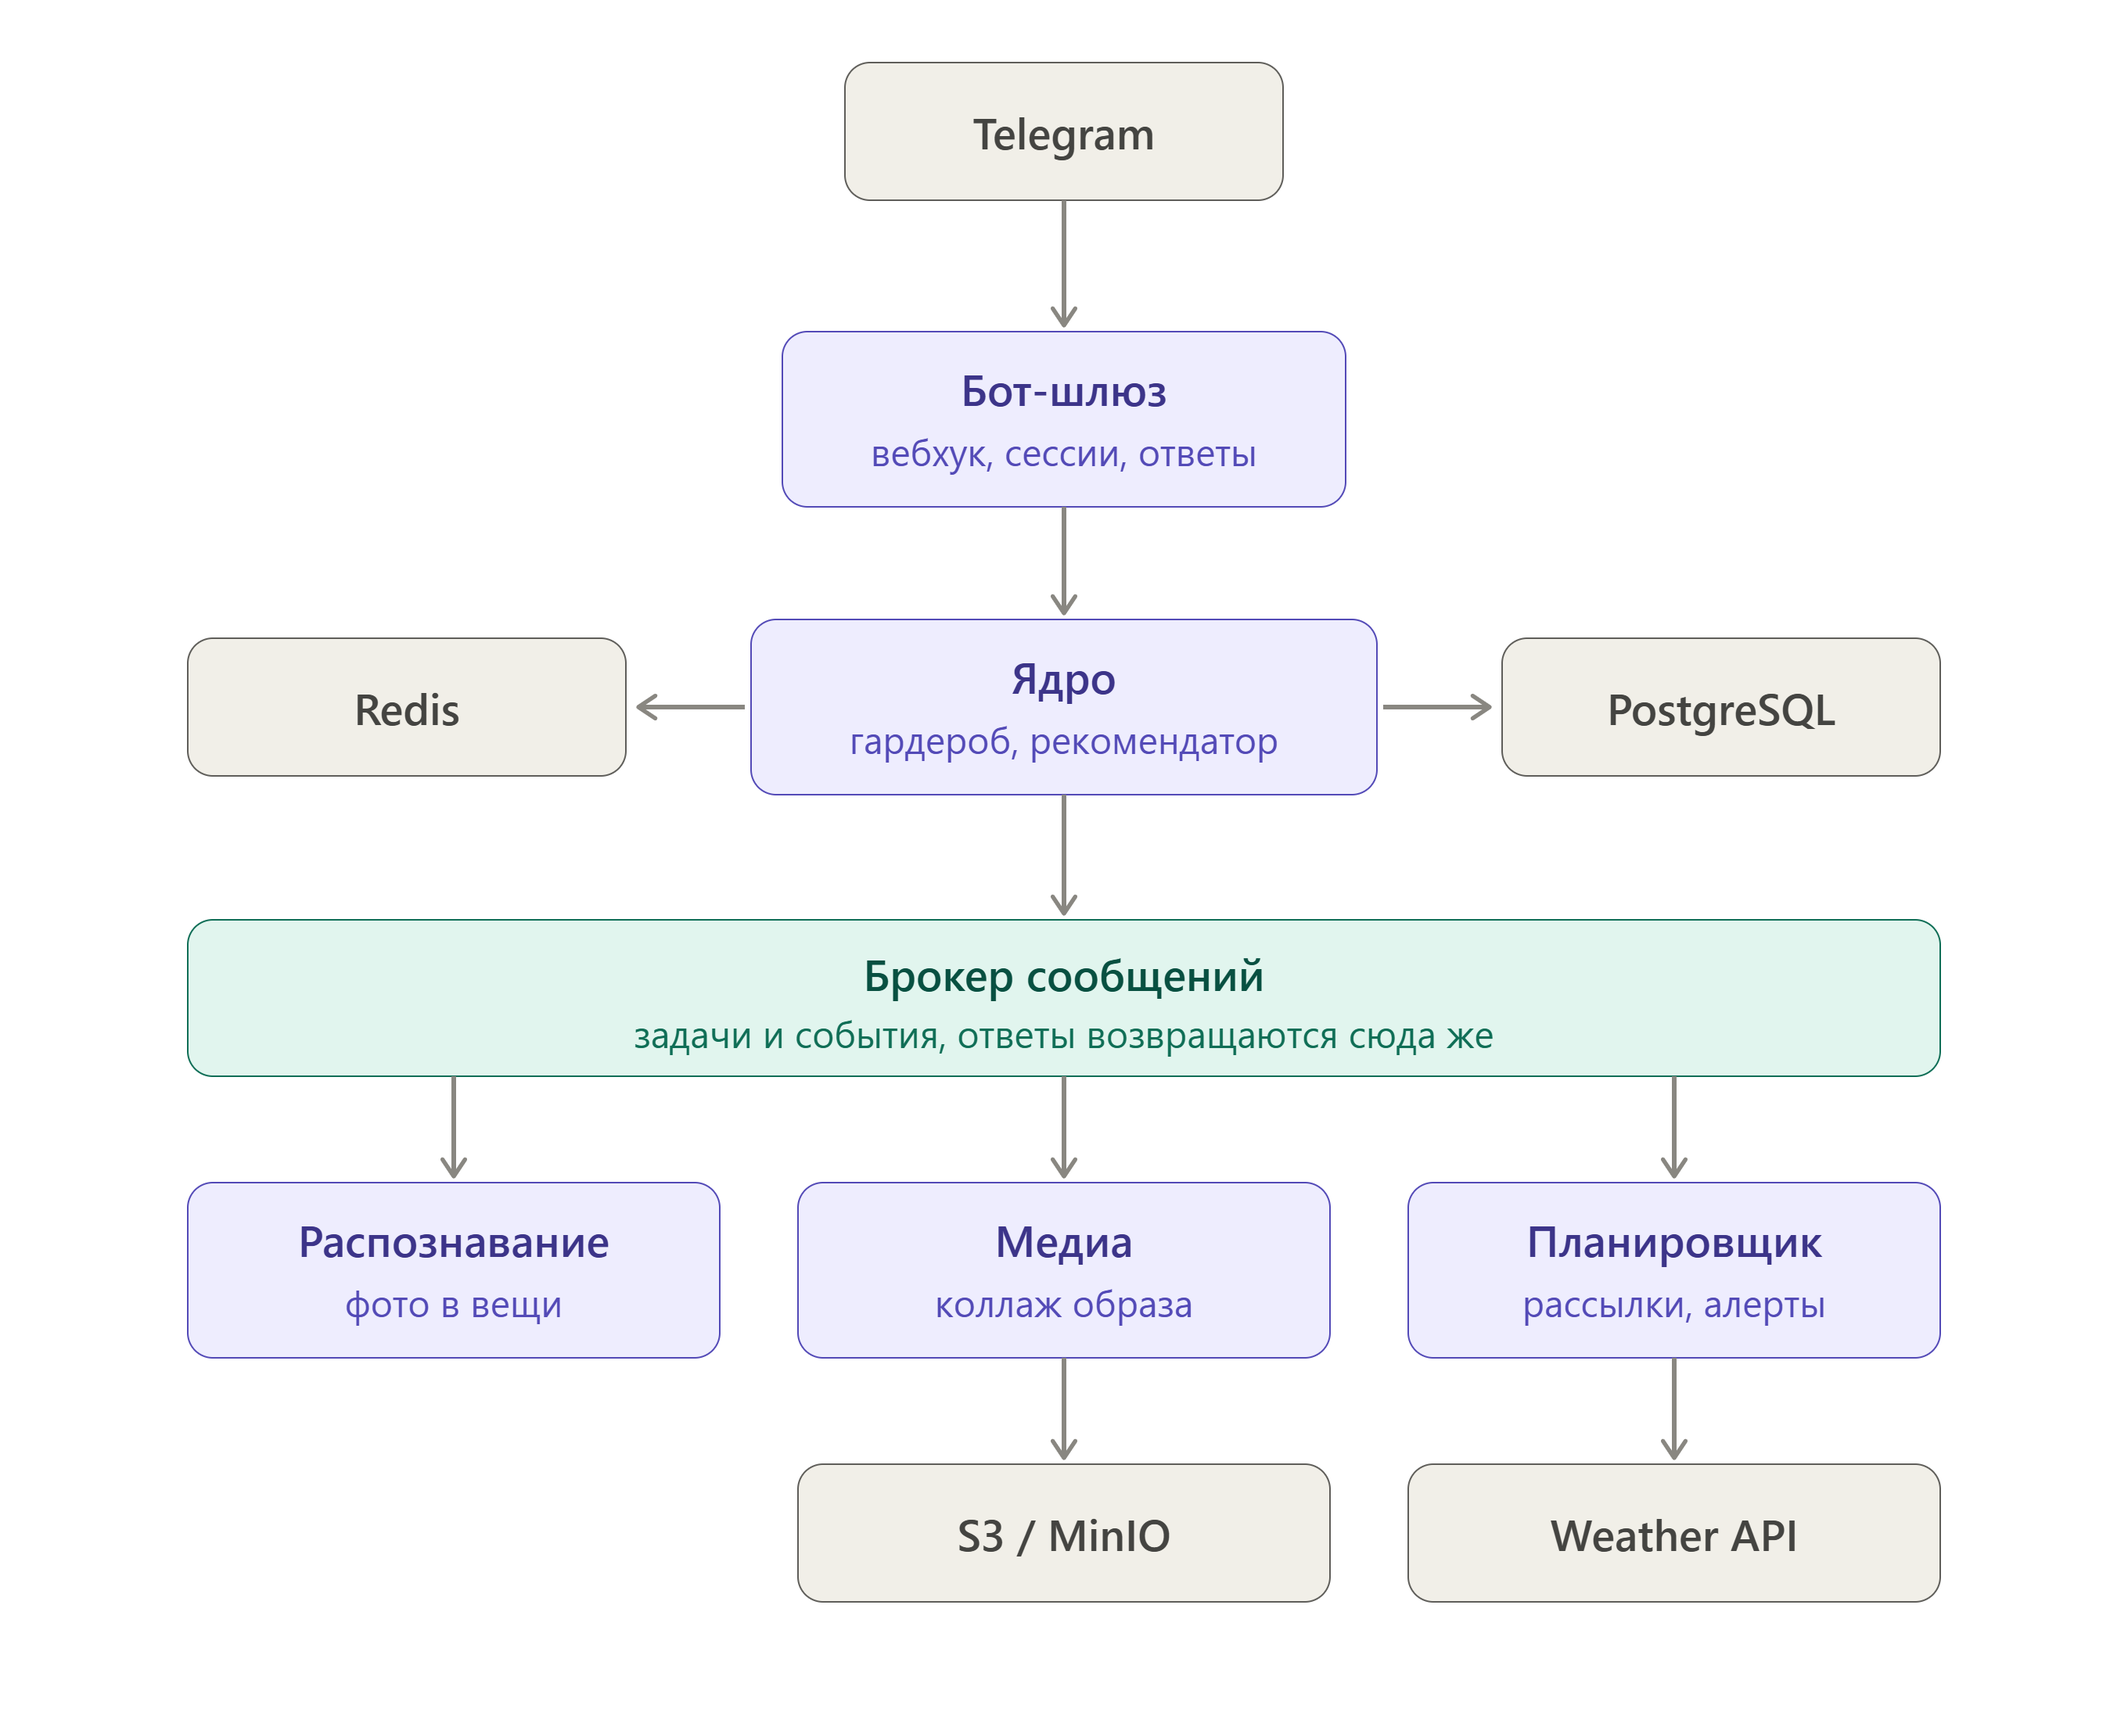
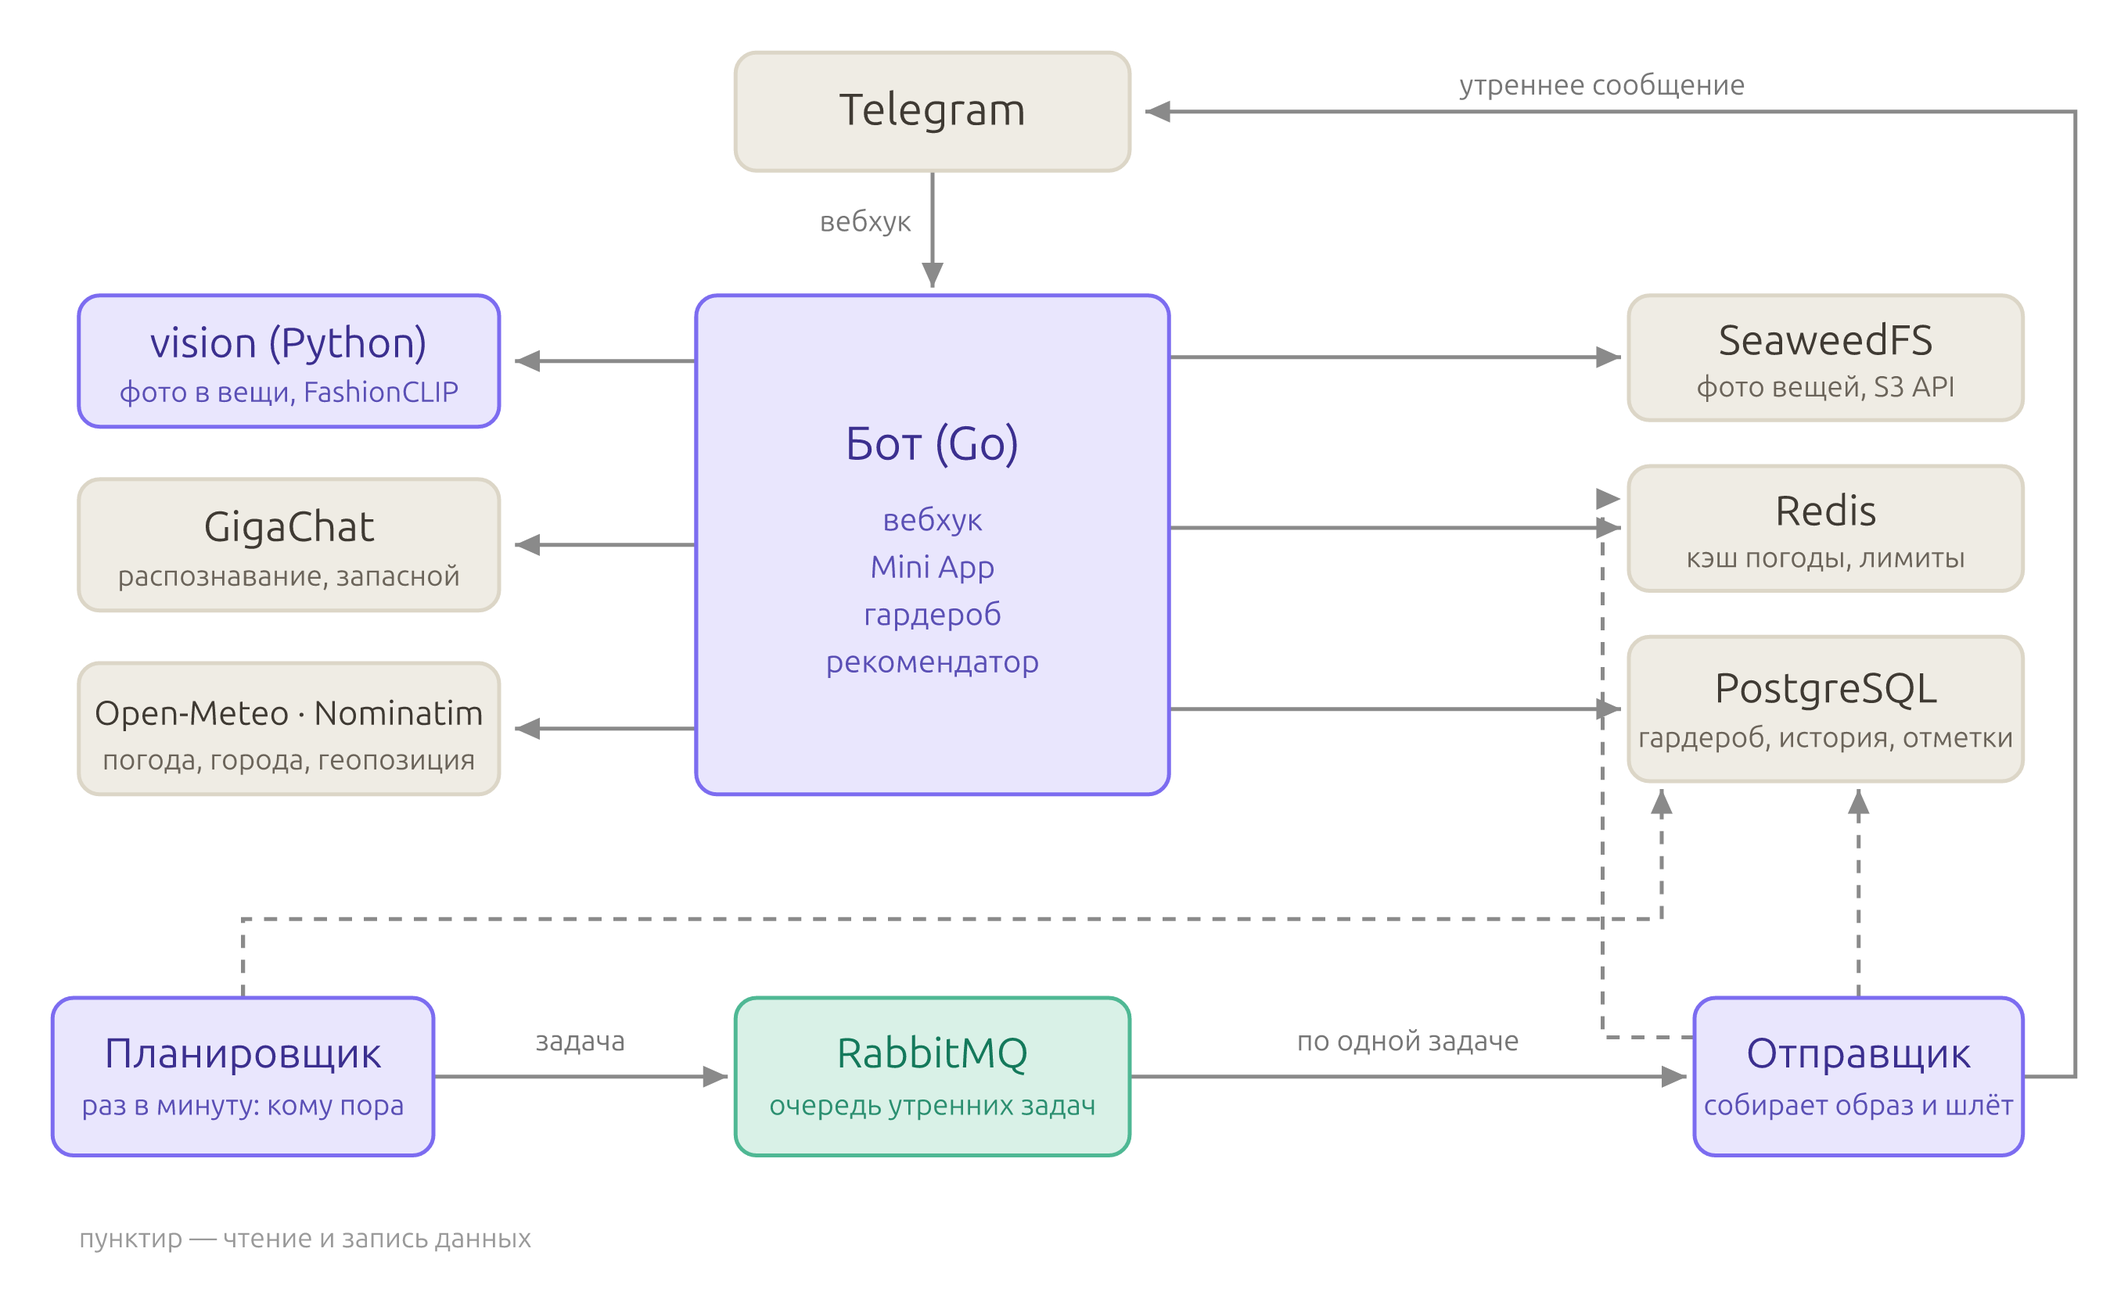
docs: redraw target architecture with a queue for the morning delivery

diff --git a/README.md b/README.md
@@ -80,11 +80,11 @@ docs/                     # решения по архитектуре и при
 
 ## Предполагаемая архитектура на выходе
 
-![Целевая архитектура: бот-шлюз, ядро, брокер сообщений и воркеры](assets/architecture-target.png)
+![Целевая архитектура: бот, планировщик, очередь задач и отправщик](assets/architecture-target.png)
 
-На схеме предполагаемая конечная архитектура. В MVP из этой картины есть бот-шлюз вместе с ядром в одном Go-процессе, планировщик рядом вторым процессом, PostgreSQL, Redis и сервис распознавания. Распознавание вызывается синхронно, по gRPC, без брокера: пользователь всё равно ждёт ответа.
+В MVP есть всё, кроме очереди: бот одним процессом - вебхук, API Mini App и подбор, - планировщик рядом вторым, PostgreSQL, Redis, хранилище фотографий и распознавание. Распознавание вызывается синхронно, по gRPC: пользователь всё равно ждёт ответа, очередь только добавила бы ожидание.
 
-Брокер появится, когда синхронное ожидание станет мешать: распознавание фото и сборка коллажа занимают секунды и не должны блокировать ответы бота, а рассылка и алерты о погоде выигрывают от ретраев. Хранилище S3 - когда фотографий станет больше, чем разумно держать рядом с сервисом.
+Очередь разделит утреннюю рассылку надвое: планировщик будет только ставить задачи, а отправщик - разбирать их, собирать образ и слать сообщение. Тогда рассылку можно ускорить, добавив отправщиков, а сообщение, не ушедшее с первого раза, повторить.
 
 ---
 
